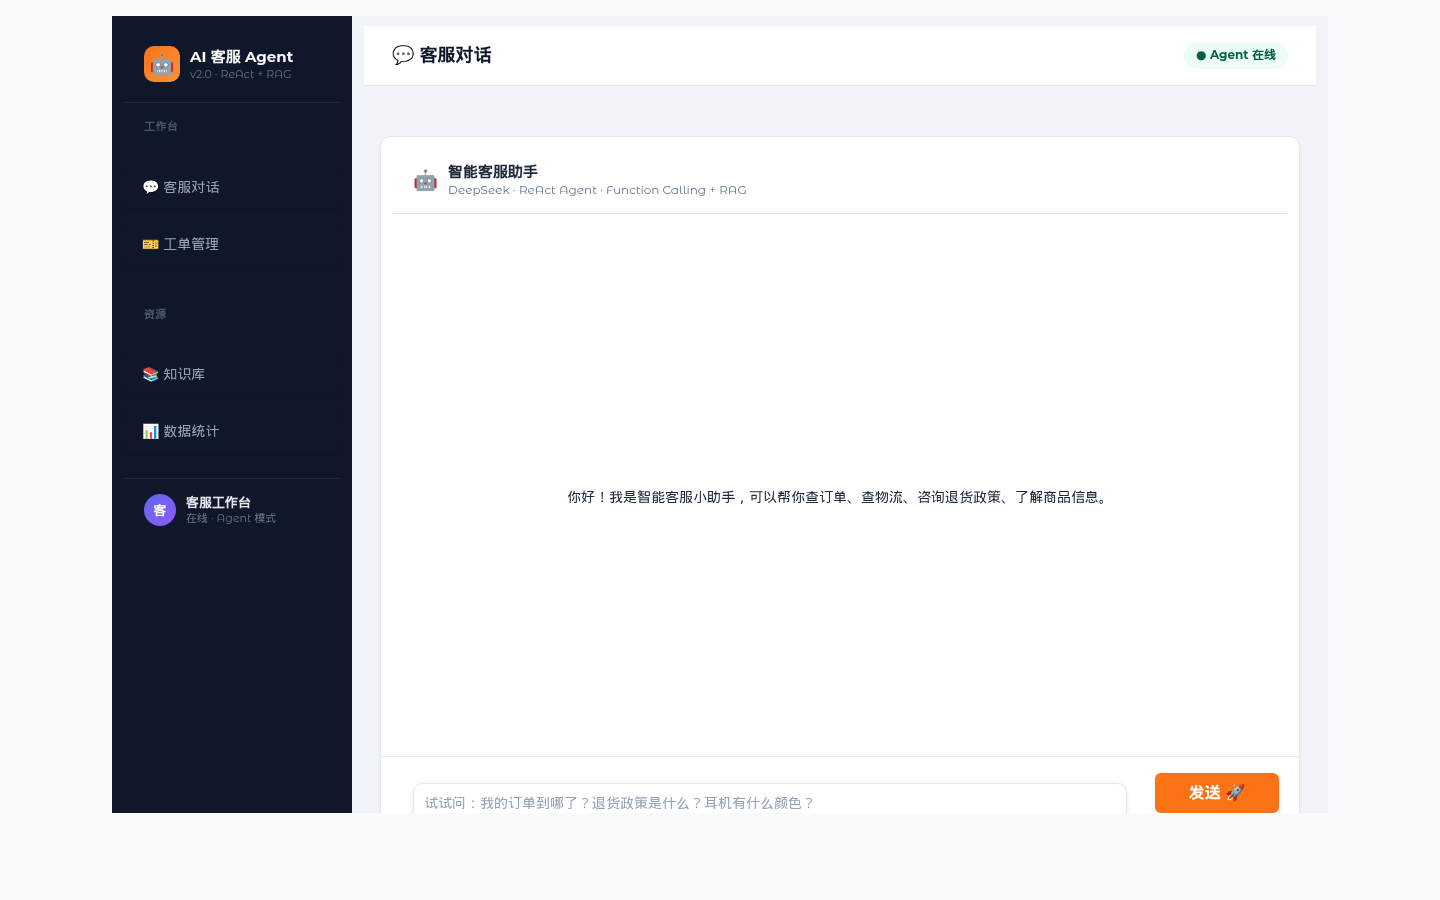
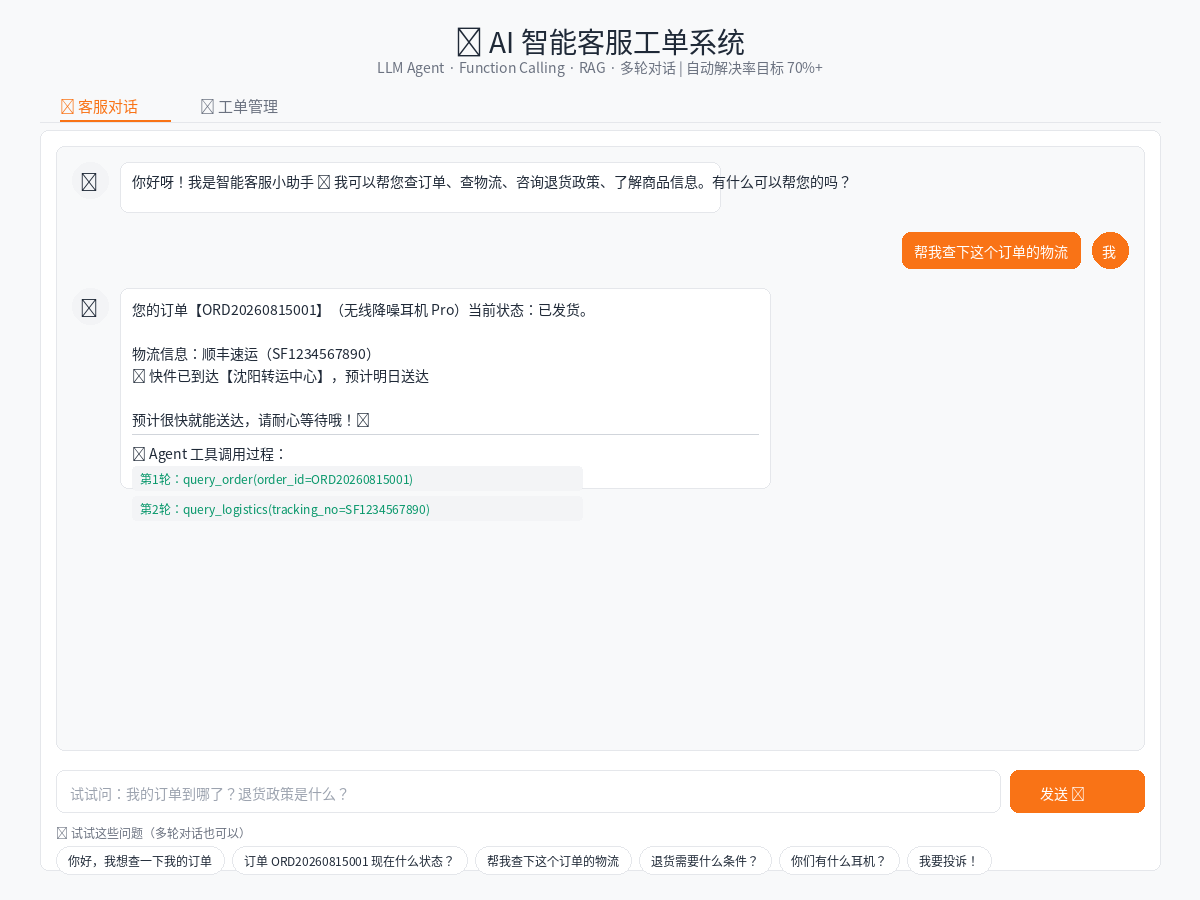
fix: 修复关键词拦截 tool_trace 缺键导致的前端崩溃；UI 防御式取值；清理 demo 相关内容；移除 RESUME.md

diff --git a/ui.py b/ui.py
@@ -1,6 +1,5 @@
 """
 Gradio 前端界面 v2.1 — 侧边栏布局
-与 GitHub Pages 在线 Demo (index.html) 风格一致：
 左侧深色侧边栏导航 + 右侧内容区，4 个模块：对话/工单/知识库/统计。
 """
 
@@ -55,8 +54,8 @@ def respond(message, history, session_id):
     if result.get("tool_trace"):
         trace_text = "\n\n---\n🔧 **Agent 工具调用过程：**\n"
         for t in result["tool_trace"]:
-            args_str = ", ".join(f"{k}={v}" for k, v in t["arguments"].items())
-            trace_text += f"- 第{t['round']}轮：`{t['tool']}({args_str})`\n"
+            args_str = ", ".join(f"{k}={v}" for k, v in t.get("arguments", {}).items())
+            trace_text += f"- 第{t.get('round', '-')}轮：`{t['tool']}({args_str})`\n"
         reply += trace_text
 
     if result["need_human"] and result.get("ticket_id"):

diff --git a/customer_service_agent.py b/customer_service_agent.py
@@ -140,7 +140,7 @@ def chat(user_message: str, session_id: str = None) -> dict:
             "ticket_id": ticket["ticket_id"],
             "priority": ticket["priority"],
             "session_id": session_id,
-            "tool_trace": [{"tool": "keyword_gate", "result": "urgent_keyword_matched"}],
+            "tool_trace": [{"round": 0, "tool": "keyword_gate", "arguments": {}, "result": "urgent_keyword_matched"}],
         }
 
     # ---------- 3. 构建消息列表 ----------

diff --git a/README.md b/README.md
@@ -9,6 +9,7 @@
 [![Gradio](https://img.shields.io/badge/Gradio-4.44-F37425.svg)](https://www.gradio.app/)
 [![Docker](https://img.shields.io/badge/Docker-Compose-2496ED.svg)](https://www.docker.com/)
 
+
 ## 📖 项目简介
 
 本项目是一个面向企业客服团队的 **AI Agent 系统**。与传统的规则匹配客服不同，它基于大语言模型的 **Function Calling** 能力，让 AI 自主理解用户意图、决定调用哪个工具、执行多步推理，最终给出准确回答。遇到投诉、退款等复杂问题，自动创建工单转接人工。
@@ -22,6 +23,11 @@
 ![客服对话](docs/screenshot-chat.png)
 
 > 用户发送消息后，Agent 自动调用工具查询订单和物流，并在回复下方展示完整的工具调用链路。
+
+### 工单管理页
+![工单管理](docs/screenshot-tickets.png)
+
+> 转人工后自动生成工单，支持状态流转（待处理 → 处理中 → 已完成）和统计概览。
 
 ## ✨ 核心功能
 
@@ -142,6 +148,27 @@ ai-customer-service/
 ├── requirements.txt            # Python 依赖
 ├── Dockerfile                  # Docker 镜像构建
 ├── docker-compose.yml          # Docker Compose 一键启动
+├── index.html                  # GitHub Pages 在线 Demo
+├── mock_data.py                # 模拟业务数据（用户/订单/物流/商品）
+├── tools.py                    # Agent 工具集 + Function Schema 定义
+├── llm_provider.py             # LLM Provider 抽象层（DeepSeek/OpenAI 可切换）
+├── rag_engine.py               # RAG 检索引擎（抽象接口 + TF-IDF 实现）
+├── db.py                       # SQLite 数据库（会话/工单/对话）
+├── ticket_manager.py           # 工单管理（分级、创建）
+├── customer_service_agent.py   # 核心 Agent（ReAct 循环）
+├── api_server.py               # FastAPI 后端
+├── ui.py                       # Gradio 前端
+├── preview.html                # 手机可打开的交互预览
+├── docs/                       # 文档和截图
+│   ├── screenshot-chat.png
+│   └── screenshot-tickets.png
+├── knowledge_base/             # RAG 知识库文档
+│   ├── 退换货政策.md
+│   ├── 常见问题.md
+│   └── 产品与售后.md
+├── RESUME.md                   # 简历项目描述
+└── README.md
+```
 
 ## 🚀 快速开始
 
